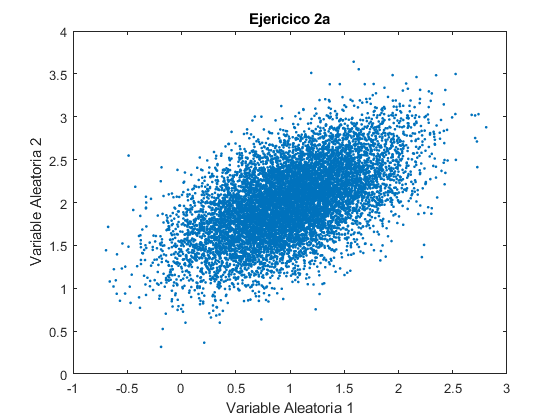
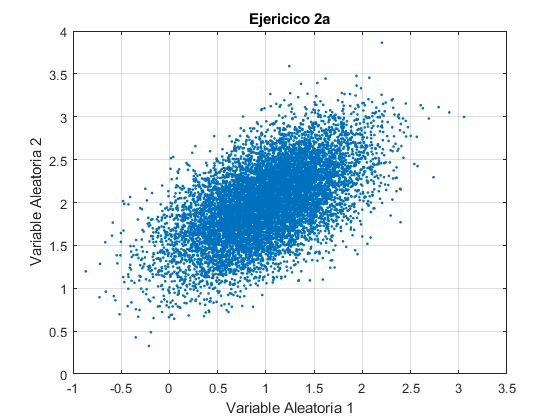
updated graphics

diff --git a/Ejercicio 2/Ejercicio2.m b/Ejercicio 2/Ejercicio2.m
@@ -2,8 +2,8 @@
 mu1= 1;
 mu2= 2;
 sigma1 = 0.5;
-sigma2 = 1;
-rho = 0.8;
+sigma2 = 0.5;
+rho = 0.5;
 a11 = 0;
 a12 = sigma1;
 a21 = sigma2*sqrt(1-rho);
@@ -23,5 +23,6 @@ Y2 = a21*X1 + a22*X2 + mu2;
 plot(Y1,Y2,'.');
 xlabel("Variable Aleatoria 1");
 ylabel("Variable Aleatoria 2");
-title("Ejericico 2b");
+title("Ejericico 2a");
+grid on;
 
